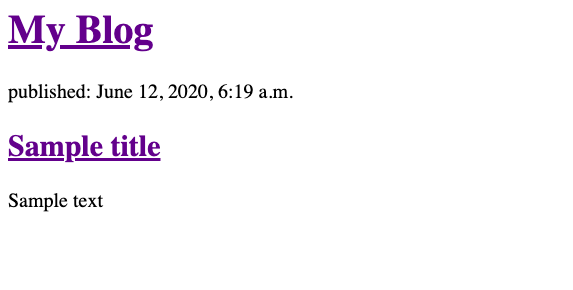
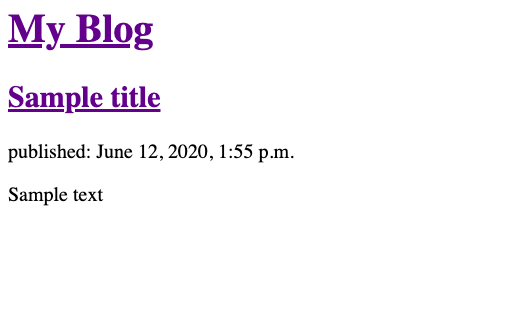
blogpost3 final changes

diff --git a/_posts/2020-06-11-django-guide-part-3.md b/_posts/2020-06-11-django-guide-part-3.md
@@ -31,7 +31,7 @@ These are the final features for your site: creating and editing blog posts. For
 
 <br>
 
-1. Django forms have their own file. Create a file named `[forms.py](http://forms.py)` inside the blog directory.
+1. Django forms have their own file. Create a file named `forms.py` inside `mysite/blog`.
 	```bash
 	blog
 	└── forms.py
@@ -60,8 +60,15 @@ Let's link the form to the last two views and templates, `post_new` and `post_ed
 
 <br>
 
-1. Go ahead and redefine the `post_new` view first.
+1. Go ahead and include the `PostForm` you just created as well as the `redirect` shortcut in `views.py`. Then redefine the `post_new` view.
 	```python
+	# Import PostForm and redirect shortcut first
+
+	import .forms import PostForm
+	import django.shortcuts import redirect
+
+	# ...
+
 	def post_new(request):
 
 		if request.method == "POST":
@@ -85,7 +92,7 @@ Let's link the form to the last two views and templates, `post_new` and `post_ed
 		return render(request, 'blog/post_new.html', context)
 	```
 
-2.  Now is the time to put something in the `post_new.html` template. Go ahead and do that.
+2.  Now is the time to put something in the `post_new.html` template. Go ahead and do that. In here we use the HTML form and add the {% raw %} `{% csrf_token %}` {% endraw %} tag for security.
 {% raw %}
 	```html
 	<h2>New Post</h2>
@@ -98,7 +105,15 @@ Let's link the form to the last two views and templates, `post_new` and `post_ed
 	```
 {% endraw %}
 
-3. Finally, redefine the `post_edit` view in the same way you did for `post_new`. Because you are to modify an existing post, add the `instance=post` argument when `PostForm()` is called.
+3. Okay let's do a quick check up. Visit the new post page and submit a new post through the URL `localhost:4000/post/new/`.
+	><strong>Rendering post_new template at</strong> `localhost:4000/post/new/`
+	![post_new template 1]({{ site.baseurl }}/assets/img/django11.png)
+
+4. Go back to the index page and you should see your new post. 
+	><strong>New post in post_list template at</strong> `localhost:4000/`
+	![post_list template]({{ site.baseurl }}/assets/img/django12.png)
+
+5. Finally, redefine the `post_edit` view in the same way you did for `post_new`. Because you are to modify an existing post, add the `instance=post` argument when `PostForm()` is called.
 	```python
 	def post_edit(request, pk):
 
@@ -128,7 +143,7 @@ Let's link the form to the last two views and templates, `post_new` and `post_ed
 		return render(request, 'blog/post_edit.html', {'form': form})
 	```
 
-4. Put this in the `post_edit.html` template.
+5. Put this in the `post_edit.html` template.
 {% raw %}
 	```html
 	<h2>Editing Post</h2>
@@ -141,14 +156,11 @@ Let's link the form to the last two views and templates, `post_new` and `post_ed
 	```
 {% endraw %}
 
-5. Okay let's do a quick check up. Visit the new post page and submit a new post through the URL `[localhost:4000/post/new/](http://localhost:4000/post/new/)`.
-	> PICTURE
-
-6. Try editing your very first Post through the URL `[localhost:4000/post/1/edit](http://localhost:4000/post/1/edit)`.
-	> PICTURE
+6. Try editing your very first Post by appending a `/edit` to the post_page URL of any post.
+	><strong>Rendering post_edit template at</strong> `localhost:4000/post/1/edit`
+	![post_edit template 1]({{ site.baseurl }}/assets/img/django13.png)
 
 7. Go back to the index page and you will see the posts are updated. Now, you don't see any link from any view going to the new post page or the edit post page. Let's do that in the next steps.
-	> PICTURE
 
 <br><br>
 
@@ -175,17 +187,19 @@ It would be best to add a **link to the new post page** in the index page. A lin
 2. To add a simple navbar, add the following code. Put the button linking to the new post page after the nav-header. Now, put the link within liquid tags with the format `url '<path_name>'`. Our path name in this case is `post_new`.
 {% raw %}
 	```html
+	<!-- Nav Bar -->
 	<nav class="navbar navbar-inverse navbar-fixed-top">
 		<div class="container-fluid">
-			<div class="navbar-header">
-			<a class="navbar-brand" href="#">My Blog</a>
-			</div>
-			<!-- Add button here. -->	
-			<a href="{% url 'post_new' %}">
-				<button class="btn navbar-btn">New Post</button>
-			</a>
+		<div class="navbar-header">
+		<a class="navbar-brand" href="/">My Blog</a>
+		</div>
+		<!-- Add button here. -->	
+		<a href="{% url 'post_new' %}">
+		 <button class="btn navbar-btn navbar-right">New Post</button>
+		</a>
 		</div>
 	</nav>
+	<!-- Nav Bar -->
 	```
 {% endraw %}
 
@@ -209,68 +223,68 @@ It would be best to add a **link to the new post page** in the index page. A lin
 ### 4. Create the base template for all templates.<a name="step4"></a>
 ***
 
-Notice that if you click new post, the nav bar and footer disappears. To sustain these elements, you could copy and paste their code in your other templates. However, there is a smarter and more sustainable way to do that: create a base template.
+Notice that it doesn't look good enough yet since the navbar is covering some elements. Also notice that if you click new post, the nav bar and footer disappears. To solve these issues, you will have to create a base template.
 
 <br>
 
 1. Under the templates folder, create a file called `base.html` and cut-and-paste in the code for the navigation bar and footer from `post_list.html`.  `base.html` should have this.
 {% raw %}
-    ```html
+	```html
 	<html>
 
-		<head>
-			
-			<title>My Blog</title>
-		
-			<!-- Bootstrap -->
-			<link rel="stylesheet" href="//maxcdn.bootstrapcdn.com/bootstrap/3.2.0/css/bootstrap.min.css">
-			<link rel="stylesheet" href="//maxcdn.bootstrapcdn.com/bootstrap/3.2.0/css/bootstrap-theme.min.css">
-		
-		</head>
+	<head>
 
-		<body>
+		<title>My Blog</title>
 
-			<!-- Nav Bar -->
-			<nav class="navbar navbar-inverse navbar-fixed-top">
-				<div class="container-fluid">
-				    <div class="navbar-header">
-						<a class="navbar-brand" href="#">My Blog</a>
-					</div>
-			
-					<!-- Create new post button -->		
-					<a href="{% url 'post_new' %}">
-						<button class="btn navbar-btn">New Post</button>
-					</a>
-				</div>
-    		</nav>
-    		<!-- Nav Bar -->
-    	
-			<!-- Content -->
-			<div class="content container">
-				<div class="row">
-					<div class="col-md-8">
-						<!-- This is where django puts the content -->
-						{% block content %}
-						{% endblock %}
-					</div>
+		<!-- Bootstrap -->
+		<link rel="stylesheet" href="//maxcdn.bootstrapcdn.com/bootstrap/3.2.0/css/bootstrap.min.css">
+		<link rel="stylesheet" href="//maxcdn.bootstrapcdn.com/bootstrap/3.2.0/css/bootstrap-theme.min.css">
+
+	</head>
+
+	<body>
+
+		<!-- Nav Bar -->
+		<nav class="navbar navbar-inverse navbar-fixed-top">
+			<div class="container-fluid">
+			<div class="navbar-header">
+			<a class="navbar-brand" href="/">My Blog</a>
+			</div>
+			<!-- Add button here. -->	
+			<a href="{% url 'post_new' %}">
+			<button class="btn navbar-btn navbar-right">New Post</button>
+			</a>
+			</div>
+		</nav>
+		<!-- Nav Bar -->
+
+
+		<!-- Content -->
+		<div class="content container" style="padding-top: 12rem">
+			<div class="row">
+				<div class="col-md-8">
+				<!-- This is where django puts the content -->
+				{% block content %}
+				{% endblock %}
 				</div>
 			</div>
-			<!-- Content -->
-    	
-			<!-- Footer -->
-			<footer class="page-footer font-small black">
-				<!-- Copyright -->
-				<div class="footer-copyright text-center py-3">© 2020 Copyright:
-					<a href="https://jennieablog.github.io/"> jennieablog</a>
-				</div>
-				<!-- Copyright -->
-			</footer>
-			<!-- Footer -->
+		</div>
+		<!-- Content -->
 
-    	</body>
+		<!-- Footer -->
+		<footer class="page-footer font-small black">
+			<!-- Copyright -->
+			<div class="footer-copyright text-center py-3">© 2020 Copyright:
+			 <a href="https://jennieablog.github.io/"> jennieablog</a>
+			</div>
+			<!-- Copyright -->
+		</footer>
+		<!-- Footer -->
 
-    </html>
-    ```
+	</body>
+
+	</html>
+	```
 {% endraw %}
 
 2. How is this going to work? Go to the other templates and add the following lines of code.
@@ -286,6 +300,8 @@ Notice that if you click new post, the nav bar and footer disappears. To sustain
 {% endraw %}
 
 3. Click the New Post button or any post in the index page and you should  still see the nav bar and footer.
+	>><strong>Rendering new post_list with new base template</strong> `localhost:4000`
+	![post_list template x]({{ site.baseurl }}/assets/img/django14.png)
 4. Finally let's add an edit button to the posts just beside the post title. Go ahead and edit `post_detail.html`.
 {% raw %}
 	```html
@@ -309,7 +325,8 @@ Notice that if you click new post, the nav bar and footer disappears. To sustain
 {% endraw %}
 
 5. Test the edit feature by clicking the button, and that's it!
-	> PICTURE
+	><strong>Rendering post_detail with base template at</strong> `localhost:4000/post/1/`
+	![post_detail template x]({{ site.baseurl }}/assets/img/django15.png)
 
 <br><br>
 

diff --git a/_posts/2020-06-10-django-guide-part-2.md b/_posts/2020-06-10-django-guide-part-2.md
@@ -247,20 +247,22 @@ Alrighty! Now we begin to create the REAL views. Let's do it chronologically, st
 
 	```
 
-3. Now, it's time to construct the template `post_list.html` . Remember that you passed data from the view called `posts` . The nice thing about Django templates is that you can put `python` code in it in between `{ %` and `% }` or `{ {` and `} }`. Go ahead and display all of the posts through a `for` loop.  
+3. Now, it's time to construct the template `post_list.html` . Remember that you passed data from the view called `posts` . The nice thing about Django templates is that you can put `python` code in it in between `{ %` and `% }` or `{ {` and `} }`. Go ahead and display all of the posts through a `for` loop.
 {% raw %}
 	```html
+
 	<div>
 		<h1><a href="/">My Blog</a></h1>
 	</div>
 
 	{% for post in posts %}
-			<div>
-			<p>published: {{ post.published_date }}</p>
+		<div>
 		    <h2><a href="">{{ post.title }}</a></h2>
+		    <p>published: {{ post.published_date }}</p>
 			<p>{{ post.text|linebreaksbr }}</p>
 		</div>
 	{% endfor %}
+
 	```
 {% endraw %}
 
@@ -274,9 +276,9 @@ Alrighty! Now we begin to create the REAL views. Let's do it chronologically, st
 ### 5. Create the post page.<a name="step5"></a>
 ***
 
-Up next is to construct the `post_detail` view that should render a template displaying the contents of a certain `Post`.<br><br>
+You'd want to link those Post titles in the index page to their respective Post pages. To do that, first you must construct the `post_detail` view that should render a template displaying the contents of a certain `Post`.<br><br>
 
-1. Redefine the `post_detail` view as follows. This new view receives the **request (request)** from the user as well as a **primary key (pk)** from the URL. This key is the unique identifier of a `Post` in our database. Use `get_object_or_404()` to handle the error if the `pk` does not correspond to any `Post`. Otherwise, pass the retrieved `Post` object to the template called `blog/post_detail.html` .
+1. Redefine the `post_detail` view as follows. This new view receives the **request (request)** from the user as well as a **primary key (pk)** from the URL as what was pointed to . This key is the unique identifier of a `Post` in our database. Use `get_object_or_404()` to handle the error if the `pk` does not correspond to any `Post`. Otherwise, pass the retrieved `Post` object to the template called `blog/post_detail.html` .
 
 	```python
 	def post_detail(request, pk):
@@ -292,21 +294,28 @@ Up next is to construct the `post_detail` view that should render a template dis
 {% raw %}
 	```html
 	<div class="post">
+		<h2>{{ post.title }}</h2>
 		<div class="date">
 			{{ post.published_date }}
 		</div>
-		<h2>{{ post.title }}</h2>
 		<p>{{ post.text|linebreaksbr }}</p>
 	</div>
 	```
 {% endraw %}
 
-3. Now, you can test if that is true by going to the first `Post` you have created previously using the Django shell. Go to that page through the URL.
+3. Now that you have a view and template for `post_detail`, you can now go back to the `post_list` template and make the Post titles link to the `post_detail` template. This line of code tells you that the `post_detail` view should be called when the link is clicked, passing to it the Post's primary key `pk`.
+{% raw %}
+	```html
+	<h2><a href="{% url 'post_detail' pk=post.pk %}">{{ post.title }}</a></h2>
+	```
+{% endraw %}
+
+4. Now, you can test if that is true by going to the first `Post` you have created previously using the Django shell. Go to that page through the index page.
 	><strong>Rendering post_detail template at</strong> `localhost:8000/post/1/`
 	![post_detail template 2]({{ site.baseurl }}/assets/img/django9.png)
 
-4. You can also try going to a non-existent post and you should see an error.
-	><strong>Rendering default error_404 template at</strong> `localhost:8000/post/20/` as there are no post with `id=20`.
+5. You can also try going to a non-existent post through the URL and you should see a 404 error.
+	><strong>Rendering default error_404 template at</strong> `localhost:8000/post/20/` as there are no post with `id=2`.
 	![error_404 template]({{ site.baseurl }}/assets/img/django10.png)
 
 <br><br>

diff --git a/_posts/2020-06-09-django-guide-part-1.md b/_posts/2020-06-09-django-guide-part-1.md
@@ -250,7 +250,7 @@ python manage.py createsuperuser
 ><strong>Screenshot 3.</strong> Django Admin Functionality
  ![django admin login page]({{ site.baseurl }}/assets/img/django3.png){: .width-100}
 
-<br><br><br>
+<br><br>
  
 ### 6. Use the Django shell to create a post.<a name="step6"></a>
 ***
